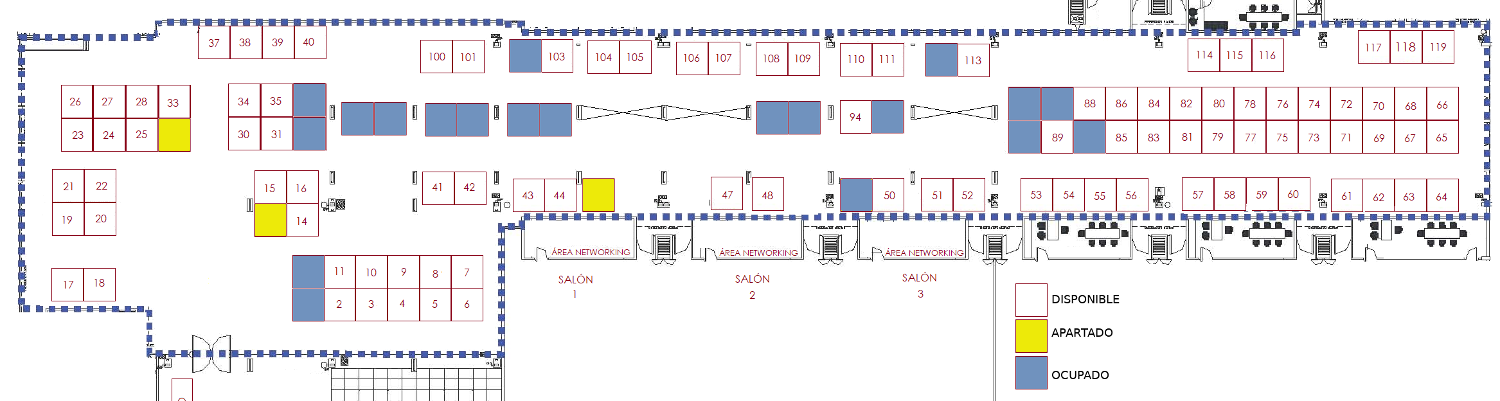
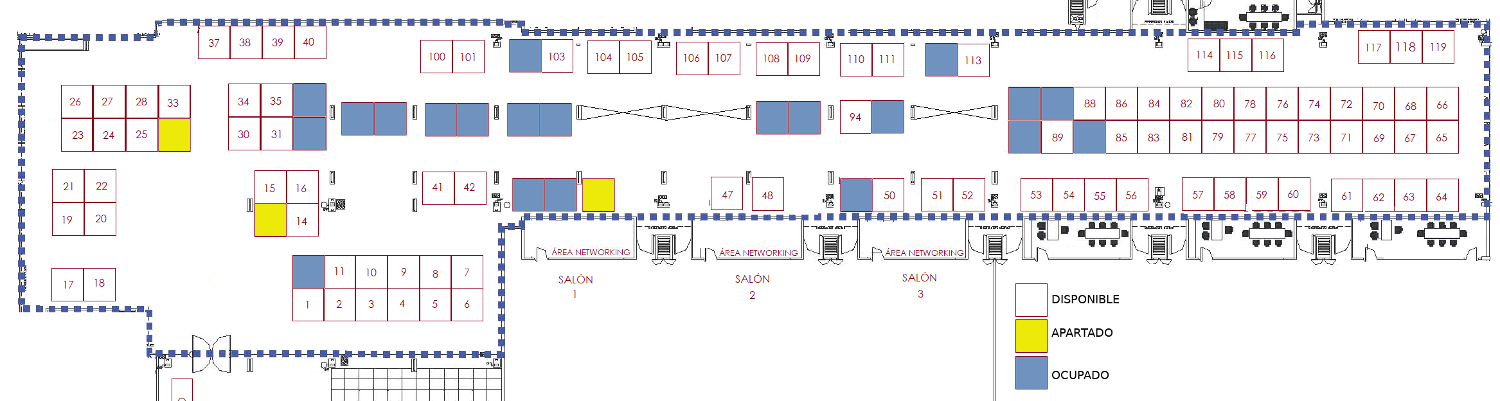
Ligas a videos de youtube

Changed region(s): [[0.3373, 0.419, 0.3987, 0.5387], [0.184, 0.7182, 0.2147, 0.808]]

diff --git a/index.html b/index.html
@@ -179,7 +179,6 @@
 	          	<div class="pr-md-5 mr-md-5">
 		            <h2 class="mb-4">Acerca de nosotros</h2>
 	            </div>
-
               <p>La Universidad Politécnica de Aguascalientes siguiendo su misión de transformar el entorno a través de una educación superior integral de excelencia en beneficio de la sociedad,
                 realiza el primer Foro Internacional de la Industria Automotriz junto con el gobierno del estado de Aguascalientes.</p>
 	            <p>Este foro busca promover la proveeduria automotriz y desarrollo de talento hacia la industria 4.0, conjuntando a diferentes actores del ramo automotriz en un solo lugar, con
@@ -190,11 +189,121 @@
 				</div>
 			</div>
 		</section>
+    <br>
+
+    <!-- Seccion de galeria de fotos-->
+    <section class="ftco-section ftco-gallery ftco-no-pt">
+      <div class="container-fluid px-4">
+        <div class="row justify-content-center mb-5">
+          <div class="col-md-7 text-center heading-section ftco-animate">
+            <h2 class="mb-3">Nuestros Expertos</h2>
+          </div>
+        </div>
+        <div class="row">
+          <div class="col-md-4 ftco-animate">
+            <iframe width="100%" height="315" src="https://www.youtube.com/embed/pFoQ9dj6qF8" frameborder="0" allow="accelerometer; autoplay; encrypted-media; gyroscope; picture-in-picture" allowfullscreen></iframe>
+          </div>
+          <div class="col-md-4 ftco-animate">
+            <iframe width="100%" height="315" src="https://www.youtube.com/embed/DqkpDE8yNNQ" frameborder="0" allow="accelerometer; autoplay; encrypted-media; gyroscope; picture-in-picture" allowfullscreen></iframe>
+          </div>
+          <div class="col-md-4 ftco-animate">
+             <iframe width="100%" height="315" src="https://www.youtube.com/embed/caz-XSxCLkQ" frameborder="0" allow="accelerometer; autoplay; encrypted-media; gyroscope; picture-in-picture" allowfullscreen></iframe>
+          </div>
+          <div class="col-md-4 ftco-animate">
+            <iframe width="100%" height="315" src="https://www.youtube.com/embed/4o5Q3HZSOSU" frameborder="0" allow="accelerometer; autoplay; encrypted-media; gyroscope; picture-in-picture" allowfullscreen></iframe>
+          </div>
+          <div class="col-md-4 ftco-animate">
+            <iframe width="100%" height="315" src="https://www.youtube.com/embed/h0nqL3iHkFo" frameborder="0" allow="accelerometer; autoplay; encrypted-media; gyroscope; picture-in-picture" allowfullscreen></iframe>
+          </div>
+          <div class="col-md-4 ftco-animate">
+            <iframe width="100%" height="315" src="https://www.youtube.com/embed/OKRCBp9q_cM" frameborder="0" allow="accelerometer; autoplay; encrypted-media; gyroscope; picture-in-picture" allowfullscreen></iframe>
+          </div>
+          <div class="col-md-4 ftco-animate">
+             <iframe width="100%" height="315" src="https://www.youtube.com/embed/zResizn06cg" frameborder="0" allow="accelerometer; autoplay; encrypted-media; gyroscope; picture-in-picture" allowfullscreen></iframe>
+          </div>
+        </div>
+      </div>
+    </section>
+
+    <!-- Sección opiniones de personalidades -->
+    <!--<section class="ftco-section testimony-section ftco-no-pt">
+      <div class="container">
+        <div class="row justify-content-center mb-5">
+          <div class="col-md-7 text-center heading-section ftco-animate">
+            <h2 class="mb-3">Oradores</h2>
+          </div>
+        </div>
+        <div class="row ftco-animate">
+          <div class="col-md-12">
+            <div class="carousel-testimony owl-carousel ftco-owl">
+              <div class="item">
+                <div class="testimony-wrap text-center py-4 pb-5">
+                  <div class="user-img mb-4" style="background-image: url(images/person_1.jpg)">
+                  </div>
+                  <div class="text pt-4">
+                    <p class="mb-4">Far far away, behind the word mountains, far from the countries Vokalia and Consonantia, there live the blind texts.</p>
+                    <p class="name">Franz Nalepa</p>
+                    <span class="position">Founder and CEO BE NEXT</span>
+                  </div>
+                </div>
+              </div>
+              <div class="item">
+                <div class="testimony-wrap text-center py-4 pb-5">
+                  <div class="user-img mb-4" style="background-image: url(images/person_2.jpg)">
+                  </div>
+                  <div class="text pt-4">
+                    <p class="mb-4">Far far away, behind the word mountains, far from the countries Vokalia and Consonantia, there live the blind texts.</p>
+                    <p class="name">Roger Scott</p>
+                    <span class="position">Interface Designer</span>
+                  </div>
+                </div>
+              </div>
+              <div class="item">
+                <div class="testimony-wrap text-center py-4 pb-5">
+                  <div class="user-img mb-4" style="background-image: url(images/person_3.jpg)">
+                  </div>
+                  <div class="text pt-4">
+                    <p class="mb-4">Far far away, behind the word mountains, far from the countries Vokalia and Consonantia, there live the blind texts.</p>
+                    <p class="name">Roger Scott</p>
+                    <span class="position">UI Designer</span>
+                  </div>
+                </div>
+              </div>
+              <div class="item">
+                <div class="testimony-wrap text-center py-4 pb-5">
+                  <div class="user-img mb-4" style="background-image: url(images/person_1.jpg)">
+                  </div>
+                  <div class="text pt-4">
+                    <p class="mb-4">Far far away, behind the word mountains, far from the countries Vokalia and Consonantia, there live the blind texts.</p>
+                    <p class="name">Roger Scott</p>
+                    <span class="position">Web Developer</span>
+                  </div>
+                </div>
+              </div>
+              <div class="item">
+                <div class="testimony-wrap text-center py-4 pb-5">
+                  <div class="user-img mb-4" style="background-image: url(images/person_1.jpg)">
+                  </div>
+                  <div class="text pt-4">
+                    <p class="mb-4">Far far away, behind the word mountains, far from the countries Vokalia and Consonantia, there live the blind texts.</p>
+                    <p class="name">Roger Scott</p>
+                    <span class="position">System Analyst</span>
+                  </div>
+                </div>
+              </div>
+            </div>
+          </div>
+        </div>
+      </div>
+    </section>-->
 
     <!-- Seccion del programa del evento -->
     <section class="ftco-section">
       <div class="container">
         <div class="ftco-schedule">
+          <div class="col-md-7 text-center heading-section ftco-animate">
+            <h2 class="mb-3">Programa</h2>
+          </div>
           <p><a href="documentos/programa_foro_Mesa de trabajo 26.jpg" class="btn btn-primary" target="_blank">Descarga el programa día 1</a></p>
           <p><a href="documentos/programa_foro_Mesa de trabajo 27.jpg" class="btn btn-primary" target="_blank">Descarga el programa día 2</a></p>
           <div class="row">
@@ -244,6 +353,7 @@
                       <h2><a href="documentos/Convocatoria_expoproyectos.pdf" target="_blank">Exposición de proyectos tecnológicos orientados al ramo automotriz</a></h2>
                       <p>Expo Proyectos</p>
                       <p><a href="documentos/Convocatoria_expoproyectos.pdf" target="_blank" class="btn btn-primary">Descarga la convocatoria</a></p>
+                      <p><a href="descargas/cartel_expoproyectos.pptx" target="_blank" class="btn btn-primary">Descarga el cartel</a></p>
                       <span class="time">12:00 pm - 07:00 pm</span>
                       <p class="location"><span class="icon-map-o mr-2"></span>26 Nov 2019 - Foro Trece del Complejo Tres Centurias</p>
                     </div>
@@ -436,118 +546,10 @@
         </div>
       </div>
     </section>
-    <!-- Seccion de galeria de fotos-->
-		<!--<section class="ftco-section ftco-gallery ftco-no-pt">
-    	<div class="container-fluid px-4">
-    		<div class="row justify-content-center mb-5">
-          <div class="col-md-7 text-center heading-section ftco-animate">
-            <h2 class="mb-3">Conference Gallery</h2>
-          </div>
-        </div>
-    		<div class="row">
-					<div class="col-md-3 ftco-animate">
-						<a href="images/image_1.jpg" class="gallery image-popup img d-flex align-items-center" style="background-image: url(images/image_1.jpg);">
-							<div class="icon mb-4 d-flex align-items-center justify-content-center">
-    						<span class="icon-instagram"></span>
-    					</div>
-						</a>
-					</div>
-					<div class="col-md-3 ftco-animate">
-						<a href="images/image_2.jpg" class="gallery image-popup img d-flex align-items-center" style="background-image: url(images/image_2.jpg);">
-							<div class="icon mb-4 d-flex align-items-center justify-content-center">
-    						<span class="icon-instagram"></span>
-    					</div>
-						</a>
-					</div>
-					<div class="col-md-3 ftco-animate">
-						<a href="images/image_3.jpg" class="gallery image-popup img d-flex align-items-center" style="background-image: url(images/image_3.jpg);">
-							<div class="icon mb-4 d-flex align-items-center justify-content-center">
-    						<span class="icon-instagram"></span>
-    					</div>
-						</a>
-					</div>
-					<div class="col-md-3 ftco-animate">
-						<a href="images/image_4.jpg" class="gallery image-popup img d-flex align-items-center" style="background-image: url(images/image_4.jpg);">
-							<div class="icon mb-4 d-flex align-items-center justify-content-center">
-    						<span class="icon-instagram"></span>
-    					</div>
-						</a>
-					</div>
-        </div>
-    	</div>
-    </section>-->
 
-    <!-- Sección opiniones de personalidades -->
-    <!--<section class="ftco-section testimony-section ftco-no-pt">
-      <div class="container">
-        <div class="row justify-content-center mb-5">
-          <div class="col-md-7 text-center heading-section ftco-animate">
-            <h2 class="mb-3">Happy Clients</h2>
-          </div>
-        </div>
-        <div class="row ftco-animate">
-          <div class="col-md-12">
-            <div class="carousel-testimony owl-carousel ftco-owl">
-              <div class="item">
-                <div class="testimony-wrap text-center py-4 pb-5">
-                  <div class="user-img mb-4" style="background-image: url(images/person_1.jpg)">
-                  </div>
-                  <div class="text pt-4">
-                    <p class="mb-4">Far far away, behind the word mountains, far from the countries Vokalia and Consonantia, there live the blind texts.</p>
-                    <p class="name">Roger Scott</p>
-                    <span class="position">Marketing Manager</span>
-                  </div>
-                </div>
-              </div>
-              <div class="item">
-                <div class="testimony-wrap text-center py-4 pb-5">
-                  <div class="user-img mb-4" style="background-image: url(images/person_2.jpg)">
-                  </div>
-                  <div class="text pt-4">
-                    <p class="mb-4">Far far away, behind the word mountains, far from the countries Vokalia and Consonantia, there live the blind texts.</p>
-                    <p class="name">Roger Scott</p>
-                    <span class="position">Interface Designer</span>
-                  </div>
-                </div>
-              </div>
-              <div class="item">
-                <div class="testimony-wrap text-center py-4 pb-5">
-                  <div class="user-img mb-4" style="background-image: url(images/person_3.jpg)">
-                  </div>
-                  <div class="text pt-4">
-                    <p class="mb-4">Far far away, behind the word mountains, far from the countries Vokalia and Consonantia, there live the blind texts.</p>
-                    <p class="name">Roger Scott</p>
-                    <span class="position">UI Designer</span>
-                  </div>
-                </div>
-              </div>
-              <div class="item">
-                <div class="testimony-wrap text-center py-4 pb-5">
-                  <div class="user-img mb-4" style="background-image: url(images/person_1.jpg)">
-                  </div>
-                  <div class="text pt-4">
-                    <p class="mb-4">Far far away, behind the word mountains, far from the countries Vokalia and Consonantia, there live the blind texts.</p>
-                    <p class="name">Roger Scott</p>
-                    <span class="position">Web Developer</span>
-                  </div>
-                </div>
-              </div>
-              <div class="item">
-                <div class="testimony-wrap text-center py-4 pb-5">
-                  <div class="user-img mb-4" style="background-image: url(images/person_1.jpg)">
-                  </div>
-                  <div class="text pt-4">
-                    <p class="mb-4">Far far away, behind the word mountains, far from the countries Vokalia and Consonantia, there live the blind texts.</p>
-                    <p class="name">Roger Scott</p>
-                    <span class="position">System Analyst</span>
-                  </div>
-                </div>
-              </div>
-            </div>
-          </div>
-        </div>
-      </div>
-    </section>-->
+
+
+
 
     <!-- Seccion de registro -->
     <a name = "registro"> </a>

diff --git a/stands.html b/stands.html
@@ -97,7 +97,7 @@ label<!DOCTYPE html>
       <div class="table-responsive">
         <img src="images/LAYOUT_STAND2.png" BORDER=1 USEMAP="#mapaStands" class ="map">
         <MAP Name="mapaStands">
-          <AREA SHAPE=RECT COORDS="292,289,323,321" NOHREF ALT="S1" data-toggle="tooltip" title='<img src="images/stands/s1.png" width="180" height="180">UPA'>
+          <AREA SHAPE=RECT COORDS="292,289,323,321" NOHREF ALT="S1" data-toggle="tooltip" title='<img src="images/stands/s1.png" width="180" height="180">DISPONIBLE'>
           <AREA SHAPE=RECT COORDS="324,289,355,321" NOHREF ALT="S2" data-toggle="tooltip" title='<img src="images/stands/s2.png" width="180" height="180">DISPONIBLE'>
           <AREA SHAPE=RECT COORDS="356,289,387,321" NOHREF ALT="S3" data-toggle="tooltip" title='<img src="images/stands/s3.png" width="180" height="180">DISPONIBLE'>
           <AREA SHAPE=RECT COORDS="388,289,419,321" NOHREF ALT="S4" data-toggle="tooltip" title='<img src="images/stands/s4.png" width="180" height="180">DISPONIBLE'>
@@ -139,8 +139,8 @@ label<!DOCTYPE html>
           <AREA SHAPE=RECT COORDS="295,26,326,58" NOHREF ALT="S40" data-toggle="tooltip" title='<img src="images/stands/s40.png" width="180" height="180">DISPONIBLE'>
           <AREA SHAPE=RECT COORDS="422,171,454,204" NOHREF ALT="S41" data-toggle="tooltip" title='<img src="images/stands/s41.png" width="180" height="180">DISPONIBLE'>
           <AREA SHAPE=RECT COORDS="455,171,486,204" NOHREF ALT="S42" data-toggle="tooltip" title='<img src="images/stands/s42.png" width="180" height="180">DISPONIBLE'>
-          <AREA SHAPE=RECT COORDS="513,178,545,211" NOHREF ALT="S43" data-toggle="tooltip" title='<img src="images/stands/s43.png" width="180" height="180">DISPONIBLE'>
-          <AREA SHAPE=RECT COORDS="546,178,578,211" NOHREF ALT="S44" data-toggle="tooltip" title='<img src="images/stands/s44.png" width="180" height="180">DISPONIBLE'>
+          <AREA SHAPE=RECT COORDS="513,178,545,211" NOHREF ALT="S43" data-toggle="tooltip" title='<img src="images/stands/s43.png" width="180" height="180">UPA'>
+          <AREA SHAPE=RECT COORDS="546,178,578,211" NOHREF ALT="S44" data-toggle="tooltip" title='<img src="images/stands/s44.png" width="180" height="180">UPA'>
           <AREA SHAPE=RECT COORDS="582,178,615,212" NOHREF ALT="S45" data-toggle="tooltip" title='<img src="images/stands/s45.png" width="180" height="180">Hardy America'>
           <AREA SHAPE=RECT COORDS="540,103,572,135" NOHREF ALT="S46" data-toggle="tooltip" title='<img src="images/stands/maindsteel.png" width="180" height="180">GRUPO MAINDSTEEL'>
           <AREA SHAPE=RECT COORDS="712,177,744,209" NOHREF ALT="S47" data-toggle="tooltip" title='<img src="images/stands/s47.png" width="180" height="180">DISPONIBLE'>
@@ -354,7 +354,7 @@ label<!DOCTYPE html>
               <ul>
 
                 <li><span class="icon icon-map-marker"></span><span class="text">Desarrollo Especial Talleres F.F.C.C., 20270 Aguascalientes, Ags.</span></li>
-                <li><a href="#"><span class="icon icon-phone"></span><span class="text">449 442 14 00</span></a></li>
+                <li><a href="#"><span class="icon icon-phone"></span><span class="text">449 333 11 00</span></a></li>
                 <li><a href="#"><span class="icon icon-envelope"></span><span class="text">foroautomotriz@upa.edu.mx</span></a></li>
 
               </ul>

diff --git a/speakers.html b/speakers.html
@@ -58,7 +58,7 @@
       <div class="container">
         <div class="row no-gutters slider-text js-fullheight align-items-end justify-content-start">
           <div class="col-md-9 ftco-animate pb-5">
-            <h1 class="mb-3 bread">Conferensistas</h1>
+            <h1 class="mb-3 bread">Conferencistas</h1>
             <p class="breadcrumbs"><span class="mr-2"><a href="index.html">Inicio <i class="ion-ios-arrow-forward"></i></a></span> <span>Conferencistas <i class="ion-ios-arrow-forward"></i></span></p>
           </div>
         </div>
@@ -75,7 +75,7 @@
         <div class="row">
         	<div class="col-md-6 d-flex align-items-stretch">
         		<div class="speaker speaker-2 ftco-animate d-flex align-items-stretch">
-	        		<div class="img" style="background-image: url(images/staff-3.jpg);">
+	        		<div class="img" style="background-image: url(images/InaSterbakken.jpg);">
 	        			<div class="text text-absolute">
 		        			<h3>Robert Bonner</h3>
 		        			<span class="position">Businessmen</span>
@@ -90,7 +90,7 @@
         	</div>
         	<div class="col-md-6">
         		<div class="speaker ftco-animate speaker-1 d-flex align-items-center mb-5">
-	        		<div class="img" style="background-image: url(images/staff-1.jpg);"></div>
+	        		<div class="img" style="background-image: url(images/InaSterbakken.jpg);"></div>
 	        		<div class="text pl-4">
 	        			<h3>Kyle Bochs</h3>
 	        			<span class="position">Businessman</span>

diff --git a/schedule.html b/schedule.html
@@ -117,6 +117,7 @@
                   	              			<h2><a href="documentos/Convocatoria_expoproyectos.pdf" target="_blank">Exposición de proyectos tecnológicos orientados al ramo automotriz</a></h2>
                   	              			<p>Expo Proyectos</p>
                                         <p><a href="documentos/Convocatoria_expoproyectos.pdf" target="_blank" class="btn btn-primary">Descarga la convocatoria</a></p>
+                                        <p><a href="descargas/cartel_expoproyectos.pptx" target="_blank" class="btn btn-primary">Descarga el cartel</a></p>
                   	              			<span class="time">12:00 pm - 07:00 pm</span>
                   	              			<p class="location"><span class="icon-map-o mr-2"></span>26 Nov 2019 - Foro Trece del Complejo Tres Centurias</p>
                   	              		</div>

diff --git a/about.html b/about.html
@@ -250,6 +250,7 @@
         <iframe src="https://www.google.com/maps/embed?pb=!1m18!1m12!1m3!1d4402.68280269983!2d-102.28202814780325!3d21.88836574703093!2m3!1f0!2f0!3f0!3m2!1i1024!2i768!4f13.1!3m3!1m2!1s0x8429ee6a3559ea7d%3A0xcc5e561ebe7ea9dd!2sForo%20Trece!5e0!3m2!1ses-419!2smx!4v1569937126534!5m2!1ses-419!2smx" width=100% height="450" frameborder="0" style="border:0;" allowfullscreen=""></iframe>
       </div>
     </div>
+    <br>
 
 
     <footer class="ftco-footer ftco-bg-dark ftco-section">
